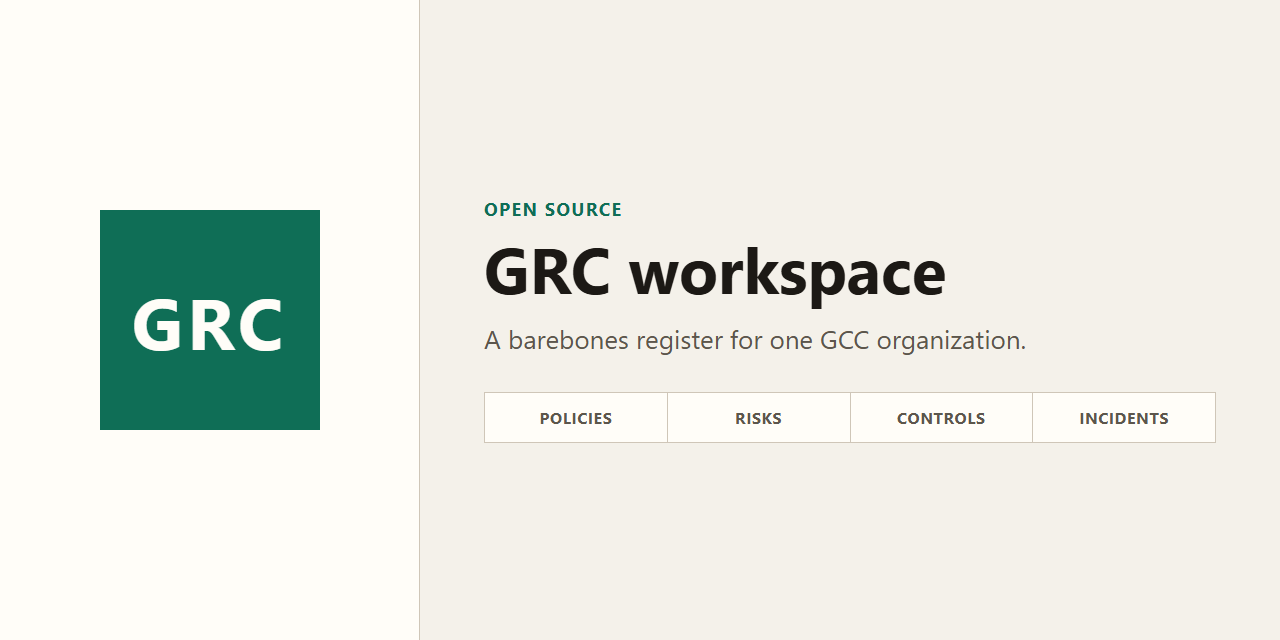
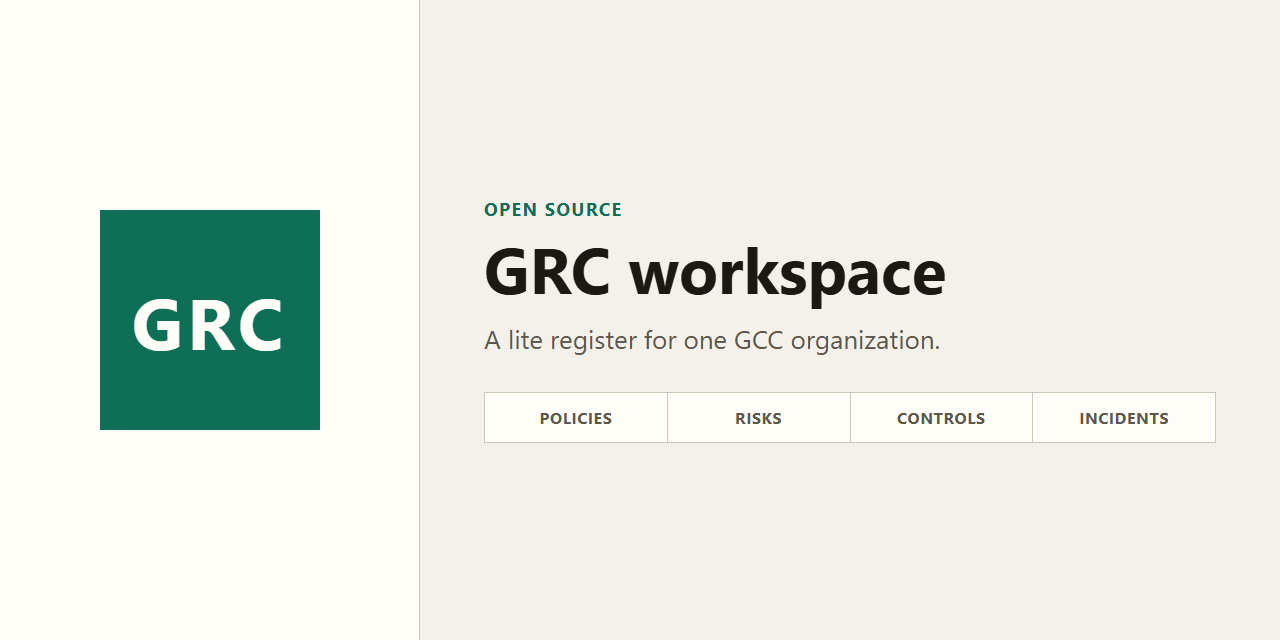
Call the workspace lite instead of barebones.
The readme, package description, and social image now use lite.

Changed region(s): [[0.4062, 0.5, 0.8125, 0.5625]]

diff --git a/README.md b/README.md
@@ -2,7 +2,7 @@
 
 ![Home](assets/home.png)
 
-A barebones governance, risk, and compliance register for one organization, aimed at a GCC SME. It is a local system of record: a person writes the registers, and the app keeps them in one place.
+A lite governance, risk, and compliance register for one organization, aimed at a GCC SME. It is a local system of record: a person writes the registers, and the app keeps them in one place.
 
 The loaded framework packs are NCA ECC, SAMA CSF, and Saudi PDPL. Control titles in the app are workspace labels, not official control text. The app does not file notices and it does not give legal advice.
 
